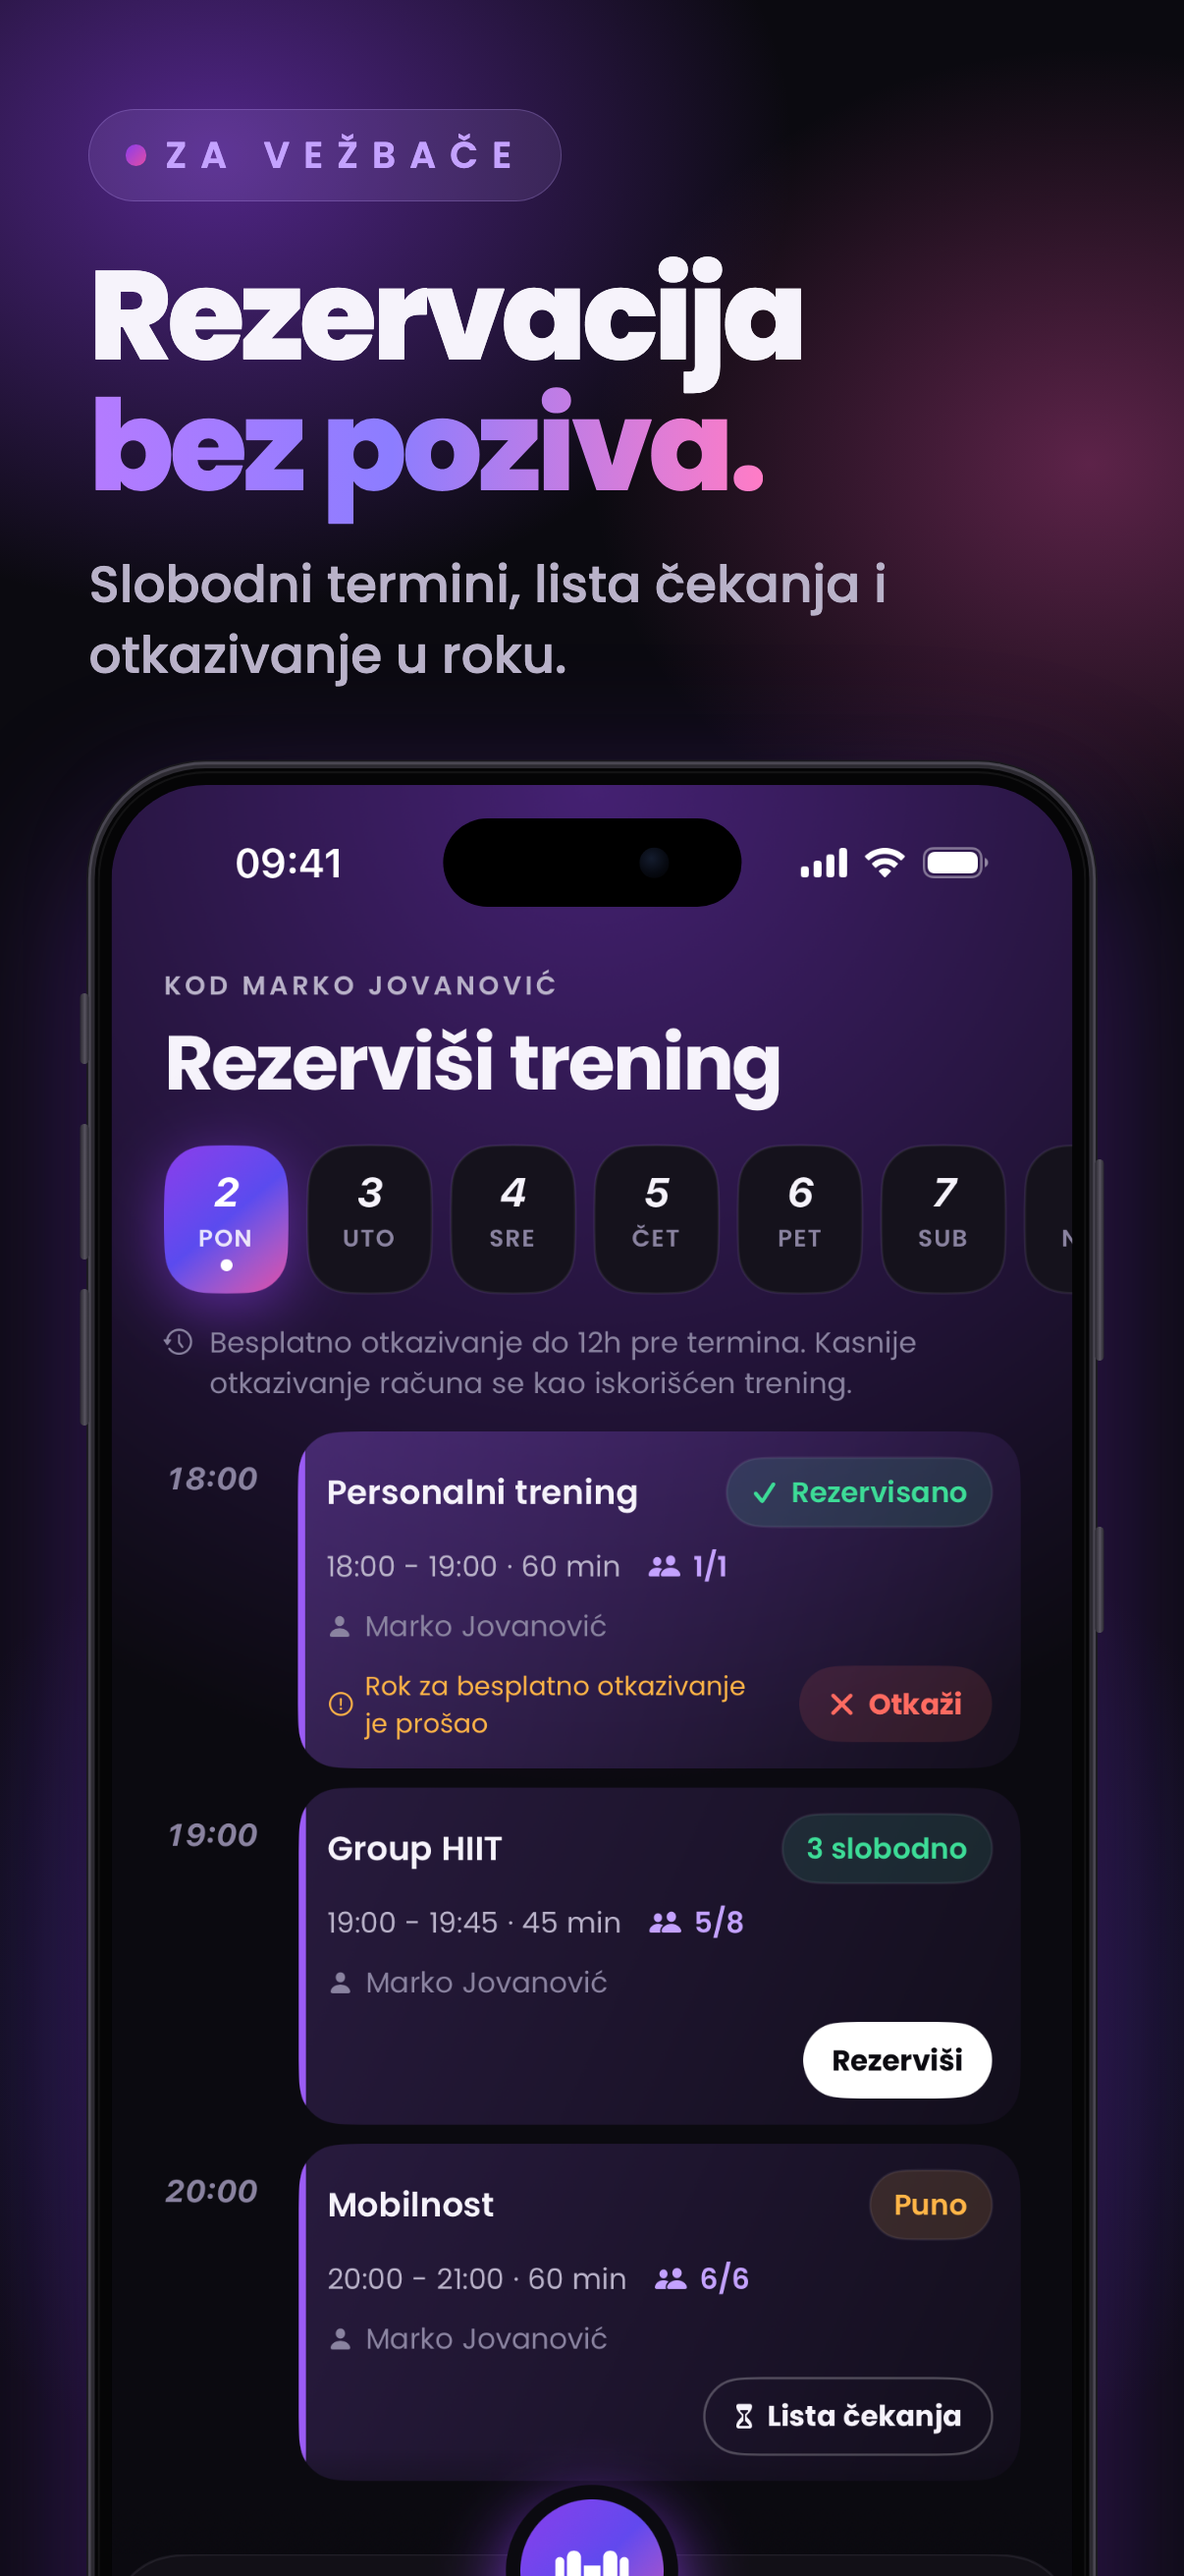
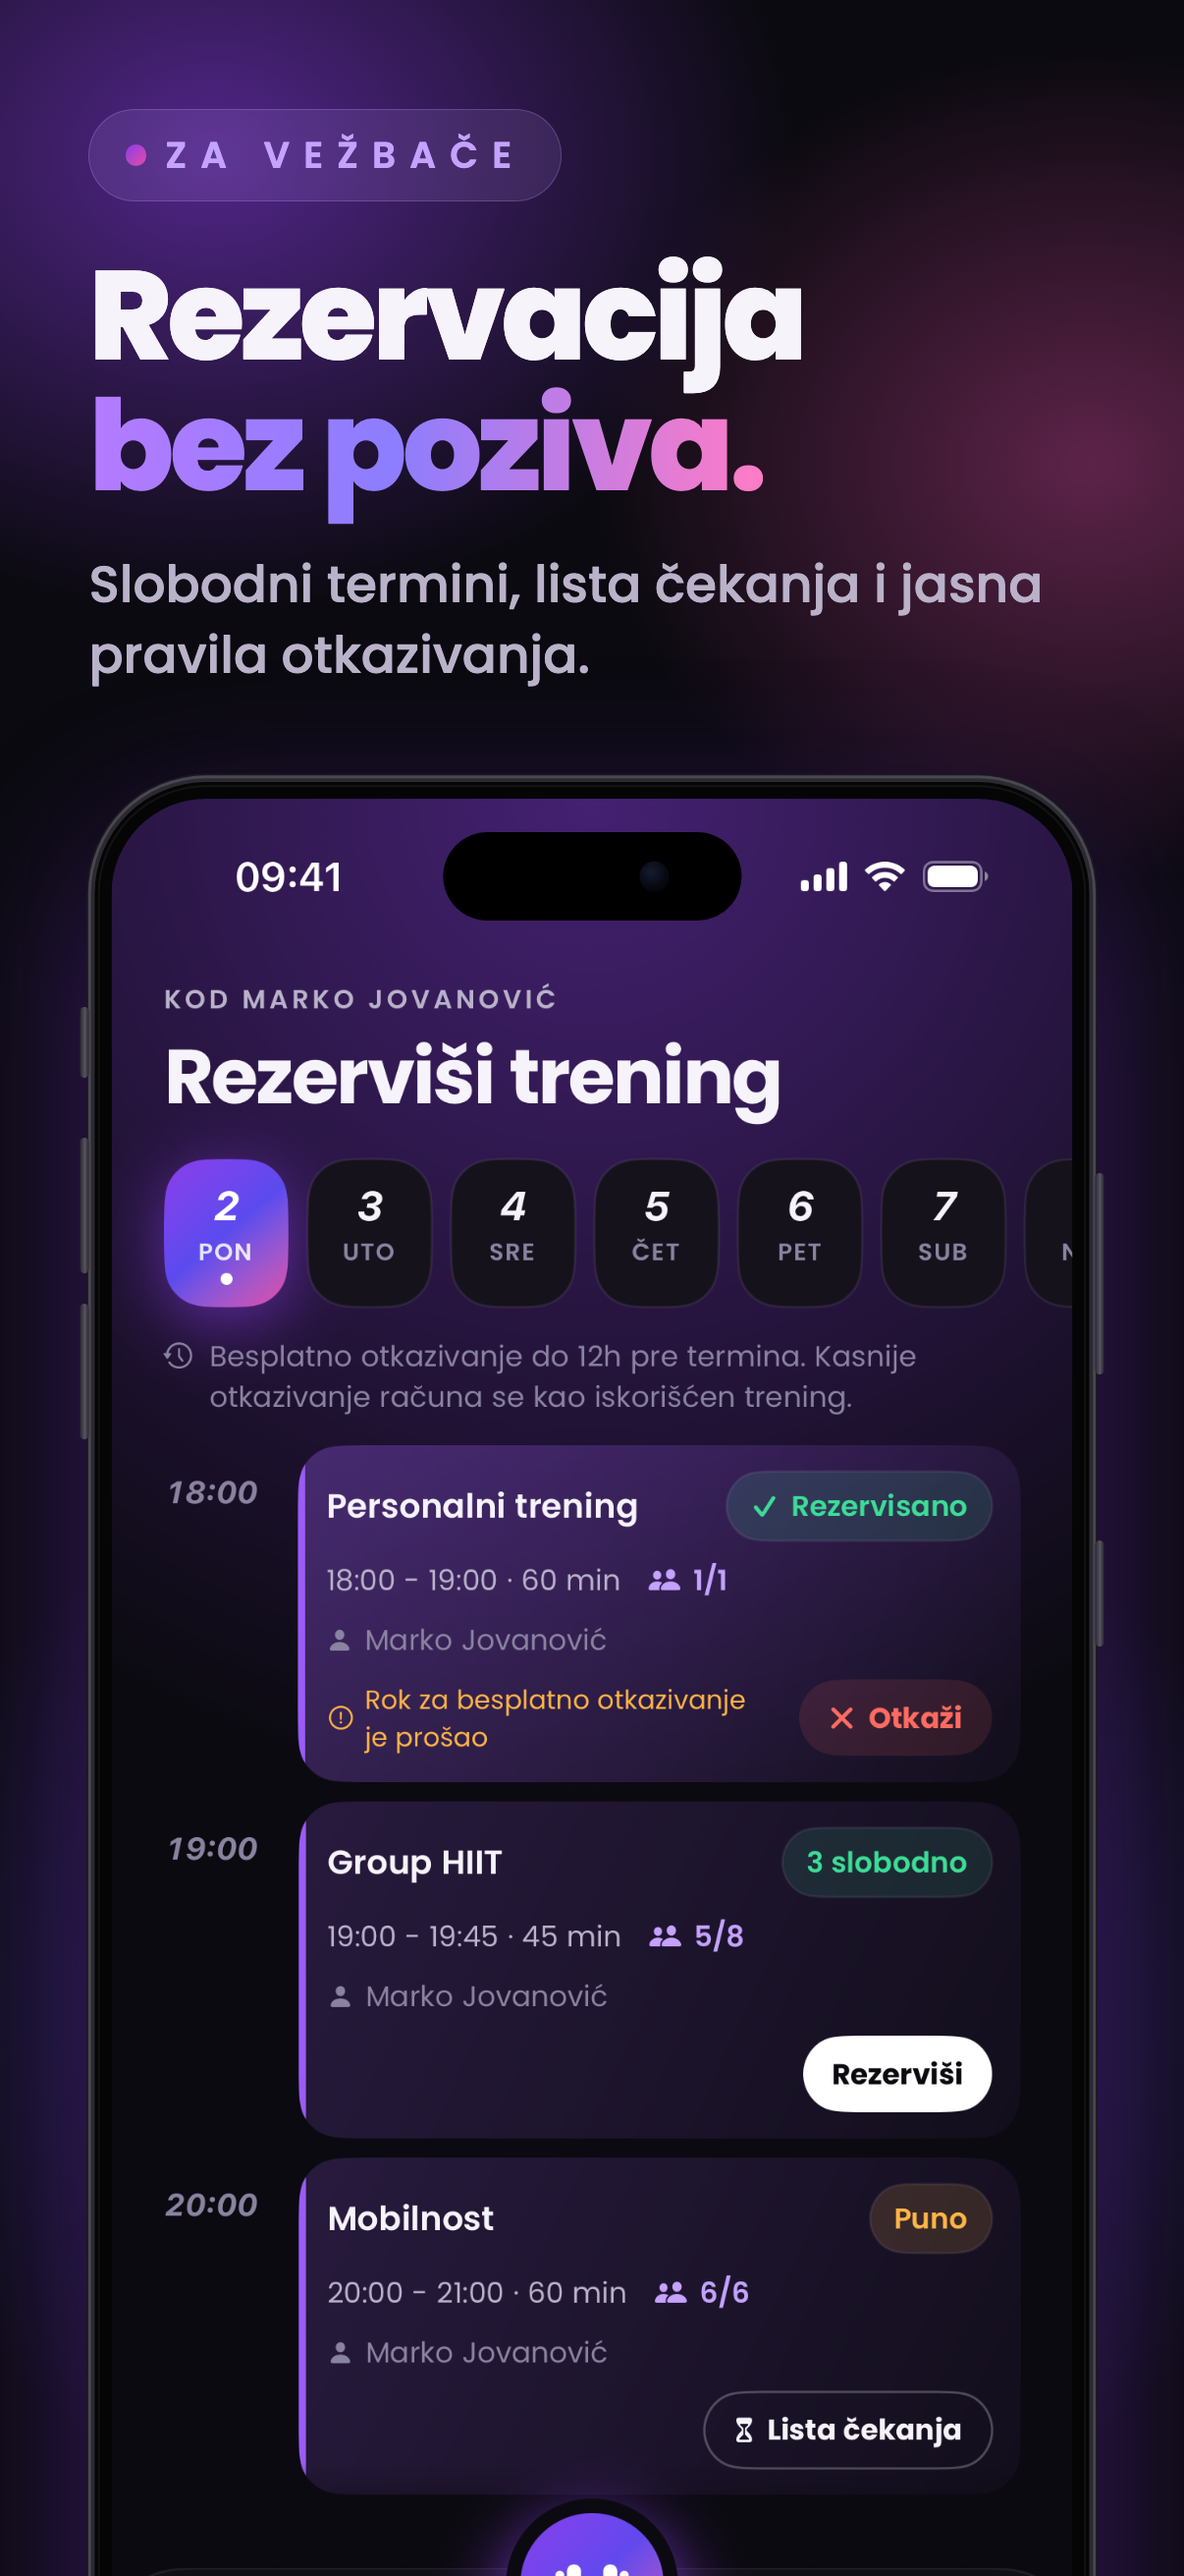
Align App Store screenshots: same phone position, 9:41 everywhere
The phone frame now sits at the same height on every image (measured after
the font loads), every caption has two lines, the calendar shows 9:41 like
the rest, and two captions match what the screen shows.

diff --git a/design/app-store/izvor/slajd.html b/design/app-store/izvor/slajd.html
@@ -67,14 +67,14 @@
 const SLAJDOVI = {
   1:  { nad: "Za trenere", naslov: "Svaki klijent,<br><em>uživo.</em>", opis: "Puls, kalorije i serija dok trenira, sa sata ili narukvice za puls.", slika: "t-uzivo-detalj" },
   2:  { nad: "Za vežbače", naslov: "Trening koji te<br><em>vodi.</em>", opis: "Serije, kilaže, puls i kalorije na jednom ekranu.", slika: "a-trening" },
-  3:  { nad: "Puls i kalorije", naslov: "Kalorije sa sata<br>ili <em>narukvice.</em>", opis: "Apple Watch, narukvica za puls ili telefon. Zone pulsa tokom celog treninga.", slika: "a-slobodan" },
+  3:  { nad: "Puls i kalorije", naslov: "Kalorije sa sata<br>ili <em>narukvice.</em>", opis: "Apple Watch, narukvica ili telefon, sa zonama pulsa.", slika: "a-slobodan" },
   4:  { nad: "Za trenere", naslov: "Termini bez<br><em>poruka.</em>", opis: "Klijenti rezervišu sami, a ti vidiš ko dolazi i ko čeka.", slika: "t-kalendar" },
   5:  { nad: "Za trenere", naslov: "Program za<br><em>par minuta.</em>", opis: "Dani, vežbe i serije, pa jednim dodirom klijentu.", slika: "t-urednik" },
   6:  { nad: "Za vežbače", naslov: "Pauza se<br><em>meri sama.</em>", opis: "Odbrojavanje, sledeća serija i puls koji se smiruje.", slika: "a-odmor" },
-  7:  { nad: "Za trenere", naslov: "Uplate pod<br><em>kontrolom.</em>", opis: "Članarine, zarada i ko još nije platio.", slika: "t-finansije" },
+  7:  { nad: "Za trenere", naslov: "Uplate pod<br><em>kontrolom.</em>", opis: "Članarine, mesečna zarada i spisak onih koji još nisu platili.", slika: "t-finansije" },
   8:  { nad: "Za vežbače", naslov: "Ishrana od<br><em>tvog trenera.</em>", opis: "Kalorije i makroi za danas, obrok po obrok.", slika: "a-ishrana" },
   9:  { nad: "Za vežbače", naslov: "Napredak koji<br><em>se vidi.</em>", opis: "Treninzi, nizovi i lični rekordi na jednom mestu.", slika: "a-napredak" },
-  10: { nad: "Za vežbače", naslov: "Rezervacija<br><em>bez poziva.</em>", opis: "Slobodni termini, lista čekanja i otkazivanje u roku.", slika: "a-rezervisi" },
+  10: { nad: "Za vežbače", naslov: "Rezervacija<br><em>bez poziva.</em>", opis: "Slobodni termini, lista čekanja i jasna pravila otkazivanja.", slika: "a-rezervisi" },
 };
 const i = parseInt(location.hash.slice(1) || "1", 10);
 const s = SLAJDOVI[i];
@@ -82,10 +82,16 @@ document.getElementById("nad").textContent = s.nad;
 document.getElementById("naslov").innerHTML = s.naslov;
 document.getElementById("opis").textContent = s.opis;
 document.getElementById("slika").src = "sirovi/" + s.slika + ".png";
-// Ekran pocinje ispod teksta; donji deo izlazi van slike.
-requestAnimationFrame(() => {
+// Telefon stoji na istoj visini na svim slikama (prostor za naslov u dva reda i opis
+// u dva reda). Mera tek kad se font ucita; duzi tekst se oznaci crvenim okvirom.
+document.getElementById("ekran").style.top = "66vw";
+document.fonts.ready.then(() => {
   const t = document.querySelector(".tekst").getBoundingClientRect();
-  document.getElementById("ekran").style.top = (t.bottom + window.innerWidth * 0.075) + "px";
+  const telefon = window.innerWidth * 0.66;
+  if (t.bottom > telefon - window.innerWidth * 0.04) {
+    document.body.style.outline = "1.5vw solid red";
+  }
+  document.title = "tekst do " + Math.round(t.bottom / window.innerWidth * 100) + "vw";
 });
 </script>
 </body>
